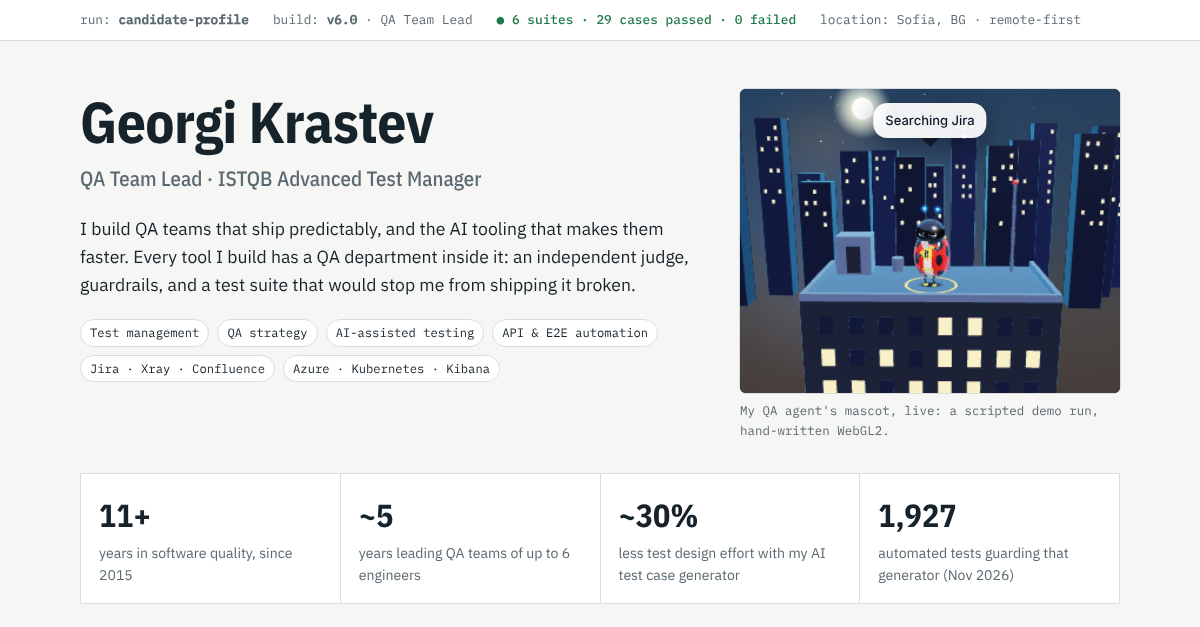
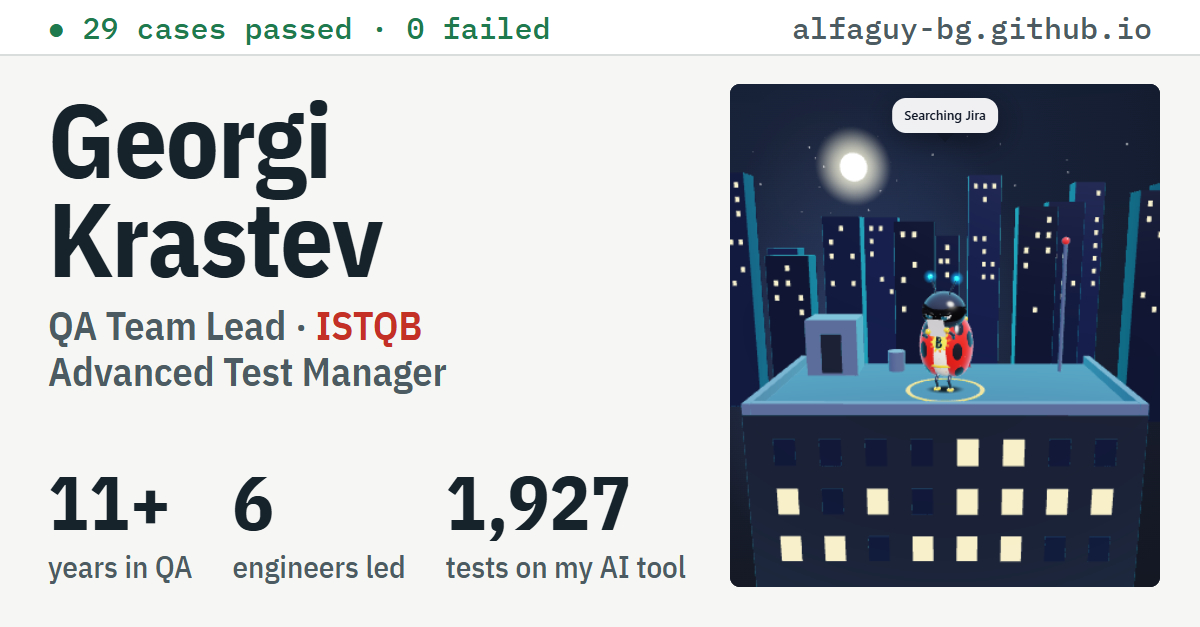
Sharper link preview card

diff --git a/tools/og/card.html b/tools/og/card.html
@@ -1,0 +1,46 @@
+<!DOCTYPE html>
+<html lang="en">
+<head>
+<meta charset="utf-8">
+<title>Link preview card</title>
+<!-- Rendered to site/og.png at 1200x627 by tools/make_og.mjs. Not published.
+     Rule for this card: it is seen at ~550px wide (desktop feed) and ~400px (phone),
+     so nothing smaller than 30px here, which is ~10px on a phone. -->
+<style>
+@font-face { font-family: "Plex Cond"; font-weight: 700; src: url("../../site/fonts/ibm-plex-sans-condensed-latin-700-normal.woff2") format("woff2"); }
+@font-face { font-family: "Plex Cond"; font-weight: 600; src: url("../../site/fonts/ibm-plex-sans-condensed-latin-600-normal.woff2") format("woff2"); }
+@font-face { font-family: "Plex Cond"; font-weight: 500; src: url("../../site/fonts/ibm-plex-sans-condensed-latin-500-normal.woff2") format("woff2"); }
+@font-face { font-family: "Plex Mono"; font-weight: 500; src: url("../../site/fonts/ibm-plex-mono-latin-500-normal.woff2") format("woff2"); }
+:root { --paper: #f6f7f5; --panel: #ffffff; --ink: #17232b; --muted: #4c5a61; --rule: #d9dedc; --accent: #c42f26; --pass: #1f7a4d; }
+* { box-sizing: border-box; }
+html, body { margin: 0; width: 1200px; height: 627px; overflow: hidden; background: var(--paper); color: var(--ink); }
+body { display: grid; grid-template-columns: 1fr 470px; grid-template-rows: 56px 1fr; font-family: "Plex Cond", "Arial Narrow", sans-serif; }
+.bar { grid-column: 1 / -1; display: flex; align-items: center; justify-content: space-between; padding: 0 48px;
+  background: var(--panel); border-bottom: 2px solid var(--rule); font-family: "Plex Mono", monospace; font-weight: 500; font-size: 30px; }
+.bar .ok { color: var(--pass); }
+.bar .url { color: var(--muted); }
+.left { padding: 34px 0 0 48px; display: flex; flex-direction: column; }
+h1 { margin: 0; font-size: 104px; line-height: .95; font-weight: 700; letter-spacing: -.01em; }
+.role { margin-top: 14px; font-size: 40px; font-weight: 600; color: var(--muted); line-height: 1.15; }
+.role b { color: var(--accent); font-weight: 600; }
+.stats { margin-top: auto; margin-bottom: 40px; display: grid; grid-template-columns: repeat(3, auto); gap: 0 40px; justify-content: start; }
+.stat .n { font-size: 76px; font-weight: 700; line-height: 1; font-variant-numeric: tabular-nums; }
+.stat .l { font-size: 31px; font-weight: 500; color: var(--muted); margin-top: 6px; }
+.right { padding: 28px 40px 40px 0; }
+iframe { width: 100%; height: 100%; border: 0; border-radius: 10px; display: block; background: #0d1220; }
+</style>
+</head>
+<body>
+  <div class="bar"><span class="ok">● 29 cases passed · 0 failed</span><span class="url">alfaguy-bg.github.io</span></div>
+  <div class="left">
+    <h1>Georgi<br>Krastev</h1>
+    <div class="role">QA Team Lead · <b>ISTQB</b><br>Advanced Test Manager</div>
+    <div class="stats">
+      <div class="stat"><div class="n">11+</div><div class="l">years in QA</div></div>
+      <div class="stat"><div class="n">6</div><div class="l">engineers led</div></div>
+      <div class="stat"><div class="n">1,927</div><div class="l">tests on my AI tool</div></div>
+    </div>
+  </div>
+  <div class="right"><iframe src="../../site/ladybug.html" title="ladybug"></iframe></div>
+</body>
+</html>

diff --git a/site/index.html b/site/index.html
@@ -14,7 +14,7 @@
 <meta property="og:image" content="https://alfaguy-bg.github.io/og.png">
 <meta property="og:image:width" content="1200">
 <meta property="og:image:height" content="627">
-<meta property="og:image:alt" content="Georgi Krastev, QA Team Lead: the portfolio header with the ladybug mascot">
+<meta property="og:image:alt" content="Georgi Krastev, QA Team Lead and ISTQB Advanced Test Manager: 11+ years in QA, 6 engineers led, 1,927 tests on my AI tool. With the ladybug mascot.">
 <meta name="twitter:card" content="summary_large_image">
 <style>
 /* Fonts are served from this site (no third party sees visitors). Copied by: npm run fonts */
